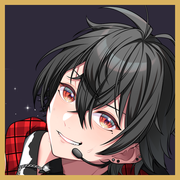
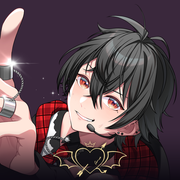
ホーム画面アイコンを全面イラスト+公式ロゴのデザインに刷新
Claude-Session: https://claude.ai/code/session_01Q8hdMR51joEyXxJTgwJaSg

diff --git a/404.html b/404.html
@@ -27,13 +27,13 @@
 <link rel="preconnect" href="https://fonts.gstatic.com" crossorigin>
 <link href="https://fonts.googleapis.com/css2?family=Dela+Gothic+One&family=M+PLUS+Rounded+1c:wght@500;700;800&family=Cinzel+Decorative:wght@700&display=swap" rel="stylesheet">
 <script>try{if(sessionStorage.getItem('ptin')==='1')document.documentElement.classList.add('pt-in')}catch(e){}</script>
-<link rel="stylesheet" href="assets/site.css?v=20261014u">
+<link rel="stylesheet" href="assets/site.css?v=20261014v">
 </head>
 <body data-page="nf">
 
 <main id="main"><div class="pg"><div class="pghead"><div class="h"><small>404</small><h1>ページが見つかりません</h1></div></div>
 <div class="card" style="text-align:center"><p style="margin-bottom:14px">矢が外れちゃったみたい。ホームに戻ろう♡</p><a class="btn" href="index.html">ホームへ</a></div></div></main>
 
-<script src="assets/site.js?v=20261014u" defer></script>
+<script src="assets/site.js?v=20261014v" defer></script>
 </body>
 </html>

diff --git a/profile.html b/profile.html
@@ -27,7 +27,7 @@
 <link rel="preconnect" href="https://fonts.gstatic.com" crossorigin>
 <link href="https://fonts.googleapis.com/css2?family=Dela+Gothic+One&family=M+PLUS+Rounded+1c:wght@500;700;800&family=Cinzel+Decorative:wght@700&display=swap" rel="stylesheet">
 <script>try{if(sessionStorage.getItem('ptin')==='1')document.documentElement.classList.add('pt-in')}catch(e){}</script>
-<link rel="stylesheet" href="assets/site.css?v=20261014u">
+<link rel="stylesheet" href="assets/site.css?v=20261014v">
 </head>
 <body data-page="profile">
 
@@ -64,6 +64,6 @@
   </section>
 </div></main>
 
-<script src="assets/site.js?v=20261014u" defer></script>
+<script src="assets/site.js?v=20261014v" defer></script>
 </body>
 </html>

diff --git a/news.html b/news.html
@@ -27,7 +27,7 @@
 <link rel="preconnect" href="https://fonts.gstatic.com" crossorigin>
 <link href="https://fonts.googleapis.com/css2?family=Dela+Gothic+One&family=M+PLUS+Rounded+1c:wght@500;700;800&family=Cinzel+Decorative:wght@700&display=swap" rel="stylesheet">
 <script>try{if(sessionStorage.getItem('ptin')==='1')document.documentElement.classList.add('pt-in')}catch(e){}</script>
-<link rel="stylesheet" href="assets/site.css?v=20261014u">
+<link rel="stylesheet" href="assets/site.css?v=20261014v">
 </head>
 <body data-page="news">
 
@@ -51,6 +51,6 @@
   </section>
 </div></main>
 
-<script src="assets/site.js?v=20261014u" defer></script>
+<script src="assets/site.js?v=20261014v" defer></script>
 </body>
 </html>

diff --git a/schedule.html b/schedule.html
@@ -27,7 +27,7 @@
 <link rel="preconnect" href="https://fonts.gstatic.com" crossorigin>
 <link href="https://fonts.googleapis.com/css2?family=Dela+Gothic+One&family=M+PLUS+Rounded+1c:wght@500;700;800&family=Cinzel+Decorative:wght@700&display=swap" rel="stylesheet">
 <script>try{if(sessionStorage.getItem('ptin')==='1')document.documentElement.classList.add('pt-in')}catch(e){}</script>
-<link rel="stylesheet" href="assets/site.css?v=20261014u">
+<link rel="stylesheet" href="assets/site.css?v=20261014v">
 </head>
 <body data-page="schedule">
 
@@ -43,6 +43,6 @@
   </div>
 </div></main>
 
-<script src="assets/site.js?v=20261014u" defer></script>
+<script src="assets/site.js?v=20261014v" defer></script>
 </body>
 </html>

diff --git a/songs.html b/songs.html
@@ -27,7 +27,7 @@
 <link rel="preconnect" href="https://fonts.gstatic.com" crossorigin>
 <link href="https://fonts.googleapis.com/css2?family=Dela+Gothic+One&family=M+PLUS+Rounded+1c:wght@500;700;800&family=Cinzel+Decorative:wght@700&display=swap" rel="stylesheet">
 <script>try{if(sessionStorage.getItem('ptin')==='1')document.documentElement.classList.add('pt-in')}catch(e){}</script>
-<link rel="stylesheet" href="assets/site.css?v=20261014u">
+<link rel="stylesheet" href="assets/site.css?v=20261014v">
 </head>
 <body data-page="songs">
 
@@ -59,6 +59,6 @@
   </form>
 </div>
 
-<script src="assets/site.js?v=20261014u" defer></script>
+<script src="assets/site.js?v=20261014v" defer></script>
 </body>
 </html>

diff --git a/index.html b/index.html
@@ -27,7 +27,7 @@
 <link rel="preconnect" href="https://fonts.gstatic.com" crossorigin>
 <link href="https://fonts.googleapis.com/css2?family=Dela+Gothic+One&family=M+PLUS+Rounded+1c:wght@500;700;800&family=Cinzel+Decorative:wght@700&display=swap" rel="stylesheet">
 <script>try{if(sessionStorage.getItem('ptin')==='1')document.documentElement.classList.add('pt-in')}catch(e){}</script>
-<link rel="stylesheet" href="assets/site.css?v=20261014u">
+<link rel="stylesheet" href="assets/site.css?v=20261014v">
 </head>
 <body data-page="home">
 
@@ -98,6 +98,6 @@
 </div>
 </main>
 
-<script src="assets/site.js?v=20261014u" defer></script>
+<script src="assets/site.js?v=20261014v" defer></script>
 </body>
 </html>

diff --git a/assets/site.js b/assets/site.js
@@ -85,7 +85,7 @@ function transitions(){
 
 /* ---------- 見出しの飾り（矢の刺さるハート） ---------- */
 var ORN='<img class="orn" src="img/logo-gold.png" alt="" width="900" height="438" loading="lazy">';
-var VER='20261014u';
+var VER='20261014v';
 function autoUpdate(){
   function chk(){try{fetch('version.json?t='+Date.now(),{cache:'no-store'}).then(function(r){return r.ok?r.json():null;}).then(function(j){
     if(!j||!j.v||j.v===VER)return;var k='verTry';if(ss(k)===j.v)return;ss(k,j.v);
